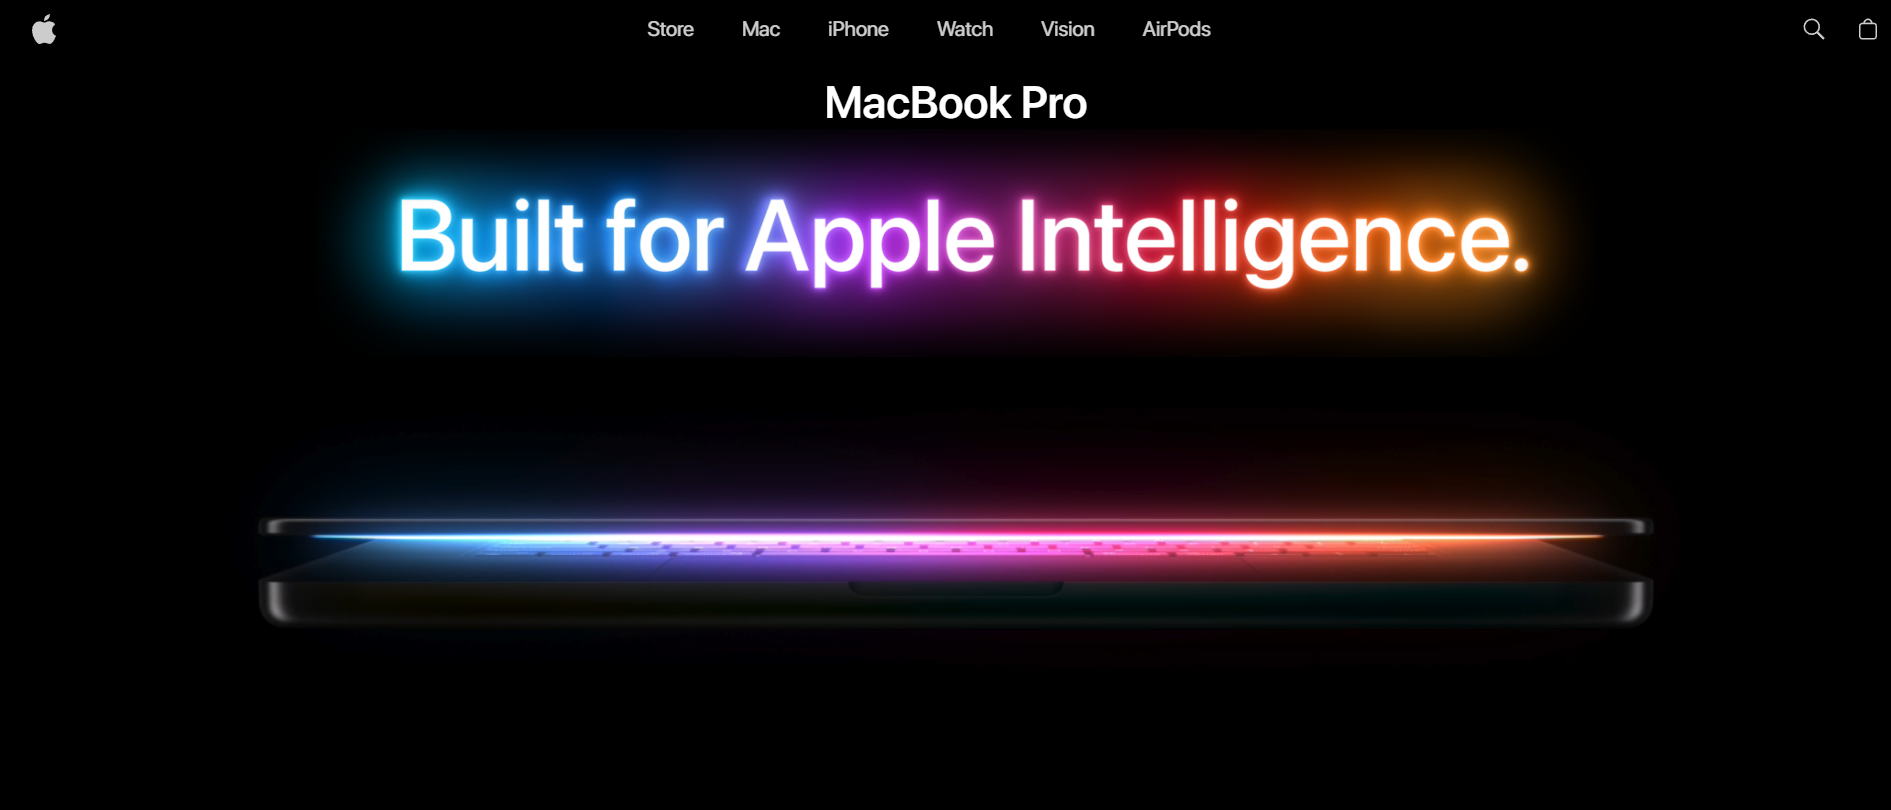
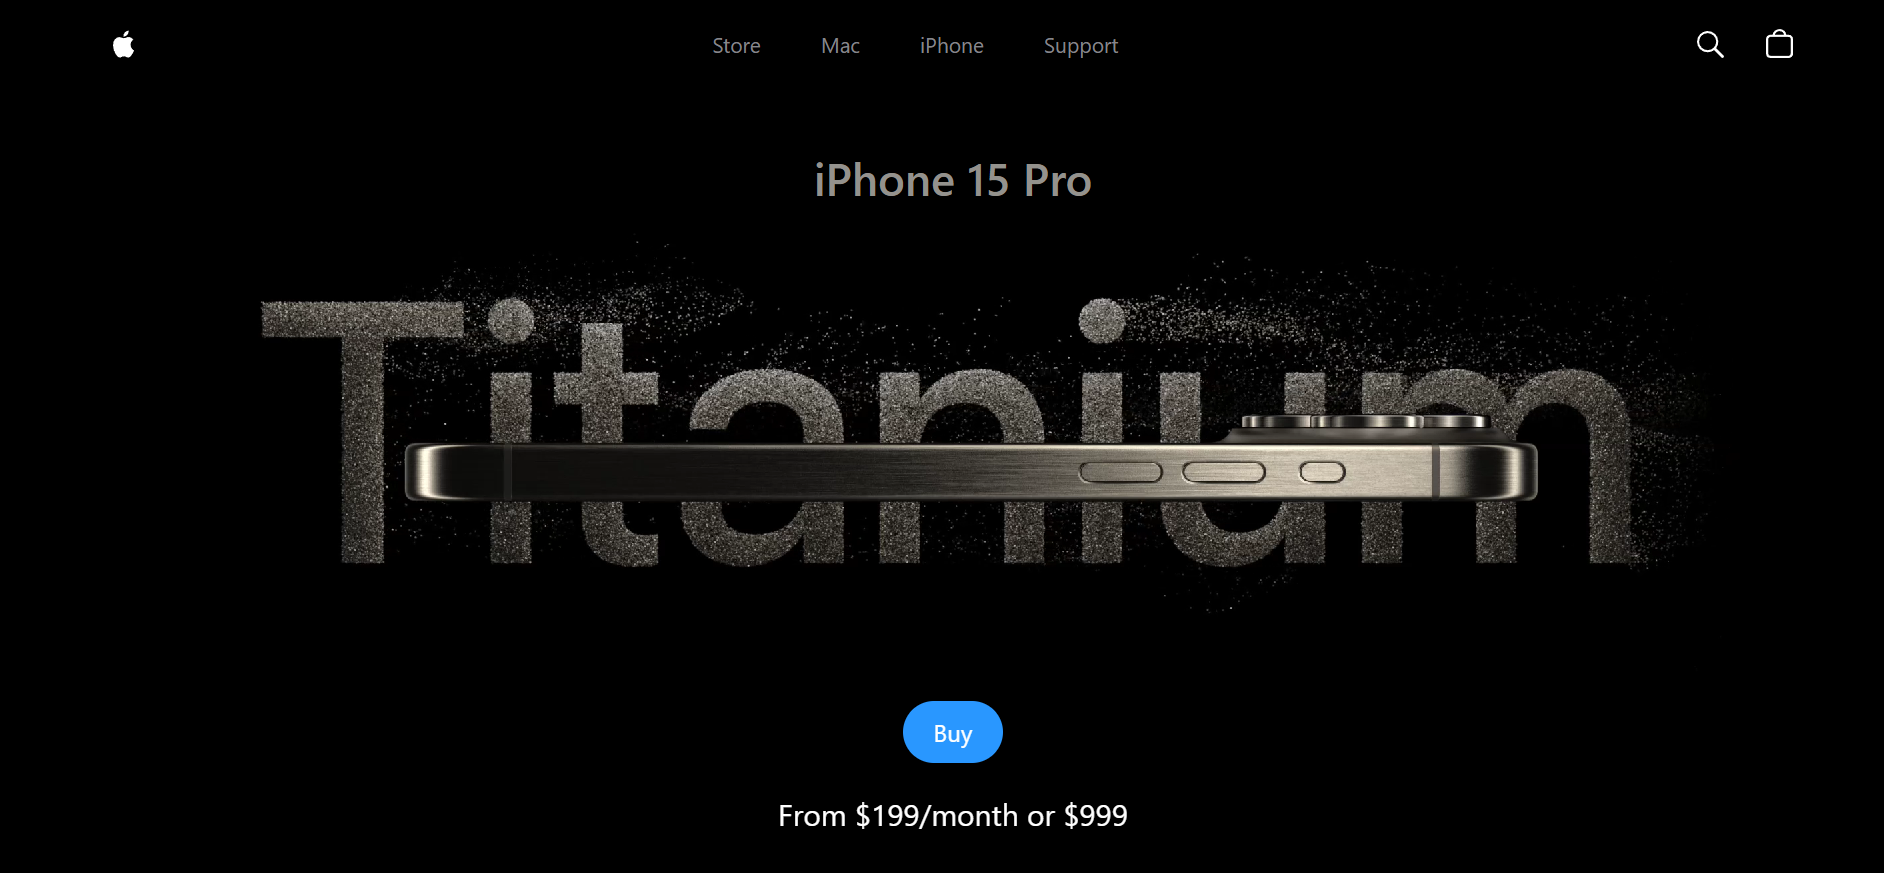
update 3rd project

diff --git a/src/app/projects/gsap-experience/page.tsx b/src/app/projects/gsap-experience/page.tsx
@@ -39,7 +39,7 @@ export default function GSAPCaseStudy() {
           <ArrowLeft className="w-4 h-4" /> All Projects
         </Link>
         <span className="text-xs font-bold tracking-widest uppercase text-[#999]">Case Study</span>
-        <a href="https://macbook-gsap-phi.vercel.app/" target="_blank" rel="noopener noreferrer" className="flex items-center gap-1.5 text-sm font-semibold text-[#111111] hover:text-[#F97316] transition-colors">
+        <a href="https://applestyle-gsap.vercel.app/" target="_blank" rel="noopener noreferrer" className="flex items-center gap-1.5 text-sm font-semibold text-[#111111] hover:text-[#F97316] transition-colors">
           View Experience <ExternalLink className="w-3.5 h-3.5" />
         </a>
       </nav>
@@ -70,10 +70,10 @@ export default function GSAPCaseStudy() {
           </p>
 
           <div className="flex flex-wrap gap-4">
-            <a href="https://macbook-gsap-phi.vercel.app/" target="_blank" rel="noopener noreferrer" className="inline-flex items-center gap-2 bg-[#F97316] hover:bg-[#EA580C] text-white px-7 py-3.5 rounded-full text-sm font-semibold transition-all shadow-lg shadow-orange-500/10">
+            <a href="https://applestyle-gsap.vercel.app/" target="_blank" rel="noopener noreferrer" className="inline-flex items-center gap-2 bg-[#F97316] hover:bg-[#EA580C] text-white px-7 py-3.5 rounded-full text-sm font-semibold transition-all shadow-lg shadow-orange-500/10">
               View Experience <ArrowUpRight className="w-4 h-4" />
             </a>
-            <a href="https://github.com/sparshydv/macbook-gsap" target="_blank" rel="noopener noreferrer" className="inline-flex items-center gap-2 border border-black/15 hover:border-[#F97316] hover:text-[#F97316] text-[#111111] px-7 py-3.5 rounded-full text-sm font-semibold transition-all">
+            <a href="https://github.com/sparshydv/iphone15pro-landingpage" target="_blank" rel="noopener noreferrer" className="inline-flex items-center gap-2 border border-black/15 hover:border-[#F97316] hover:text-[#F97316] text-[#111111] px-7 py-3.5 rounded-full text-sm font-semibold transition-all">
               View Code <Github className="w-4 h-4" />
             </a>
           </div>

diff --git a/src/sections/Projects.tsx b/src/sections/Projects.tsx
@@ -40,7 +40,7 @@ export default function Projects() {
       subtitle: "Interactive Product Experience",
       tags: ["[ THREE.JS ]", "[ GSAP ]", "[ TAILWIND CSS ]"],
       description: "A high-performance, animation-driven web experience built using GSAP and Three.js. Focused on immersive storytelling through scroll-based animations, 3D rendering, and premium UI interactions.",
-      link: "https://macbook-gsap-phi.vercel.app/",
+      link: "https://applestyle-gsap.vercel.app/",
       caseStudyLink: "/projects/gsap-experience",
       image: AppleImg
     }